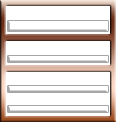
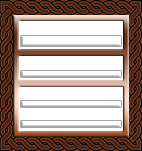
celtic knotwork border added to the stats bezel gui overlay

diff --git a/js/Interface/UI.js b/js/Interface/UI.js
@@ -24,7 +24,7 @@ function drawStatsBox() {
 	drawRect(32,140, Math.ceil(player.stats.def / player.stats.maxDef* 100),6, "grey");
 	//drawText(`MP: ${player.stats.mp}/${player.stats.maxMp}`, 32, 168, 'black', '10px sans-serif');
 
-	canvasContext.drawImage(statsBezelPic,24,34);
+	canvasContext.drawImage(statsBezelPic,11,19);
 
 
 }
